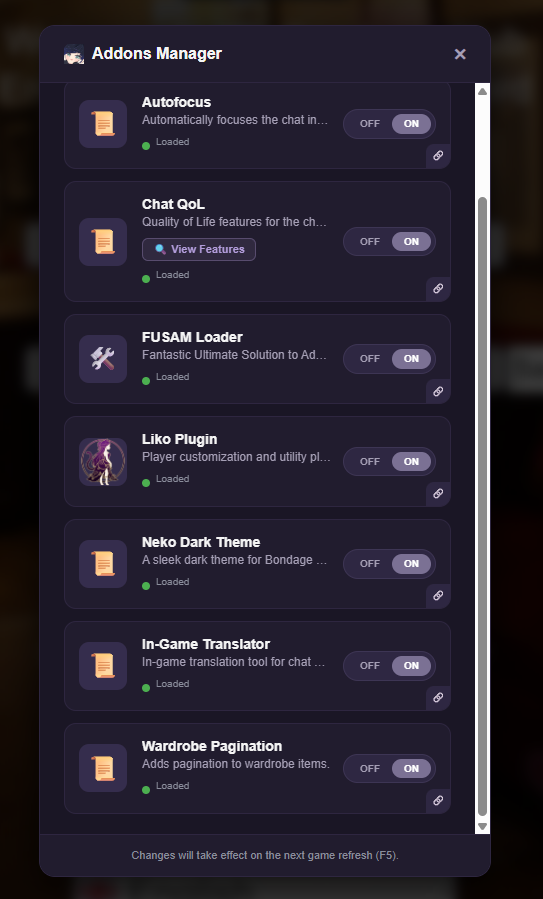
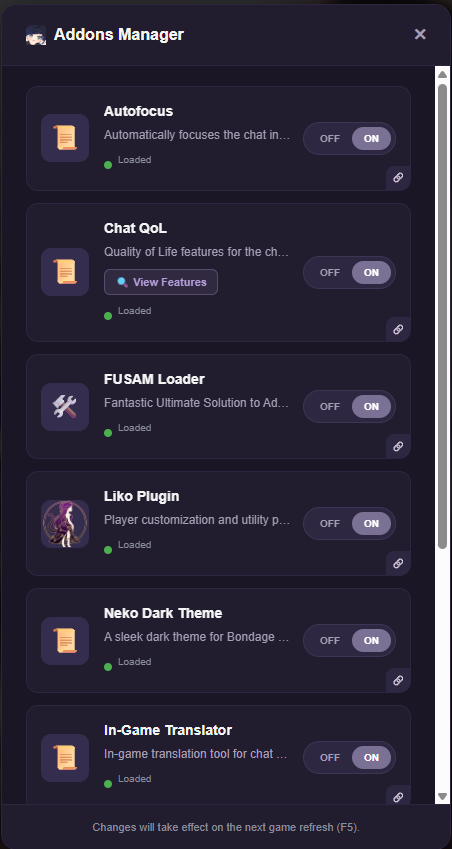
Remove Screenshot Cleaner docs and adjust stats
This commit removes the old Screenshot Cleaner documentation section and its accompanying asset images from the README. It also updates the performance benchmark figures to reflect newer measurements and adds a note clarifying that the RAM usage figures were taken with 40+ addons enabled.

diff --git a/Readme.md b/Readme.md
@@ -222,64 +222,7 @@ javascript: (function () {
 })();
 ```
 
-### 5. Screenshot Cleaner (`screenshot-cleaner.js`)
-
-A must-have utility for taking perfectly clean photos. Every screenshot taken in-game will automatically remove all addon buttons, sliders, and overlays, so there's no need to hide them manually!
-
-<p float="left">
-  <img src="Assets/cleaner_addon_before.png" width="49%" alt="Before Screenshot Cleaner" />
-  <img src="Assets/cleaner_addon_after.png" width="49%" alt="After Screenshot Cleaner" />
-</p>
-
-**Features:**
-
-- Seamlessly drops every third-party button and addon overlay from the captured frame.
-- Keeps in-game photos limited strictly to the characters, their arousal meters, and the room.
-- Works securely at the canvas render level via `bcModSdk`.
-
-**How to Install:**
-
-#### Bookmarklet (One-Click)
-
-```javascript
-javascript: (function () {
-    var script = document.createElement("script");
-    script.src =
-        "https://cdn.jsdelivr.net/gh/Izumii99/BC-Desktop@main/Scripts/screenshot-cleaner.js?v=" +
-        Date.now();
-    document.head.appendChild(script);
-    console.log("Fetching Screenshot Cleaner from GitHub...");
-})();
-```
-
-#### Tampermonkey, ViolentMonkey, etc. (Auto-Loader)
-
-```javascript
-// ==UserScript==
-// @name         Screenshot Cleaner
-// @namespace    http://tampermonkey.net/
-// @version      2.0
-// @description  Keeps in-game photos limited to the characters, their arousal meters and the room.
-// @author       Izumii99
-// @match        https://*.bondageprojects.elementfx.com/*
-// @match        https://*.bondage-europe.com/*
-// @match        https://*.bondageprojects.com/*
-// @match        https://*.bondage-asia.com/*
-// @grant        none
-// ==/UserScript==
-
-(function () {
-    "use strict";
-    var script = document.createElement("script");
-    script.src =
-        "https://cdn.jsdelivr.net/gh/Izumii99/BC-Desktop@main/Scripts/screenshot-cleaner.js?v=" +
-        Date.now();
-    document.head.appendChild(script);
-    console.log("Screenshot Cleaner Loader: Injected successfully!");
-})();
-```
-
-### 6. Cheat Menu (`cheat-menu.js`)
+### 5. Cheat Menu (`cheat-menu.js`)
 
 A lightweight floating cheat menu that provides various shortcuts and utilities for testing and fun. _(Please give me more cheat so I can add that doesn't exist at ULTRABC or even mine work)_
 
@@ -339,10 +282,12 @@ javascript: (function () {
 | -------------------------- | ---------------------- | ----------------------------------- |
 | **Bundled Browser**        | Chromium (~150 MB)     | OS native (WebView2)                |
 | **CPU (Active Playing)**   | ~3% – 15%              | ~1% – 5%                            |
-| **RAM (Active Playing)**   | ~700 MB – 1.2 GB       | ~500 MB – 650 MB                    |
-| **RAM (Idle/Background)**  | ~300 MB – 500 MB       | ~100 MB – 250 MB (Sleeping Tabs)    |
-| **App Size (Lightweight)** | ~100–200 MB            | ~4 MB                               |
-| **App Size (Standalone)**  | ~100–200 MB            | ~160 MB (Contains .NET, no Browser) |
+| **RAM (Active Playing)**   | ~700 MB – 1.2 GB       | ~400 MB – 700 MB                    |
+| **RAM (Idle/Background)**  | ~300 MB – 500 MB       | ~200 MB – 400 MB (Sleeping Tabs)    |
+| **App Size (Lightweight)** | ~100–200 MB            | ~10 MB                              |
+| **App Size (Standalone)**  | ~100–200 MB            | ~172 MB (Contains .NET, no Browser) |
+
+*Note: The RAM usage above was benchmarked under heavy load (running the game with a total of **40+ addons**, including more than 10 major/heavy addons). Vanilla usage without addons will be significantly lower.*
 
 ## Requirements
 
@@ -363,13 +308,13 @@ dotnet build -c Release
 
 ## Publishing (Lightweight vs Standalone)
 
-**Option 1: Lightweight (~3MB, requires .NET 8 Runtime installed)**
+**Option 1: Lightweight (~10MB, requires .NET 8 Runtime installed)**
 
 ```powershell
 dotnet publish -c Release -r win-x64 --self-contained false -p:PublishSingleFile=true -o .\publish\Lightweight
 ```
 
-**Option 2: Standalone (~162MB, fully self-contained)**
+**Option 2: Standalone (~172MB, fully self-contained)**
 
 ```powershell
 dotnet publish -c Release -r win-x64 --self-contained true -p:PublishSingleFile=true -p:IncludeNativeLibrariesForSelfExtract=true -o .\publish\Standalone
